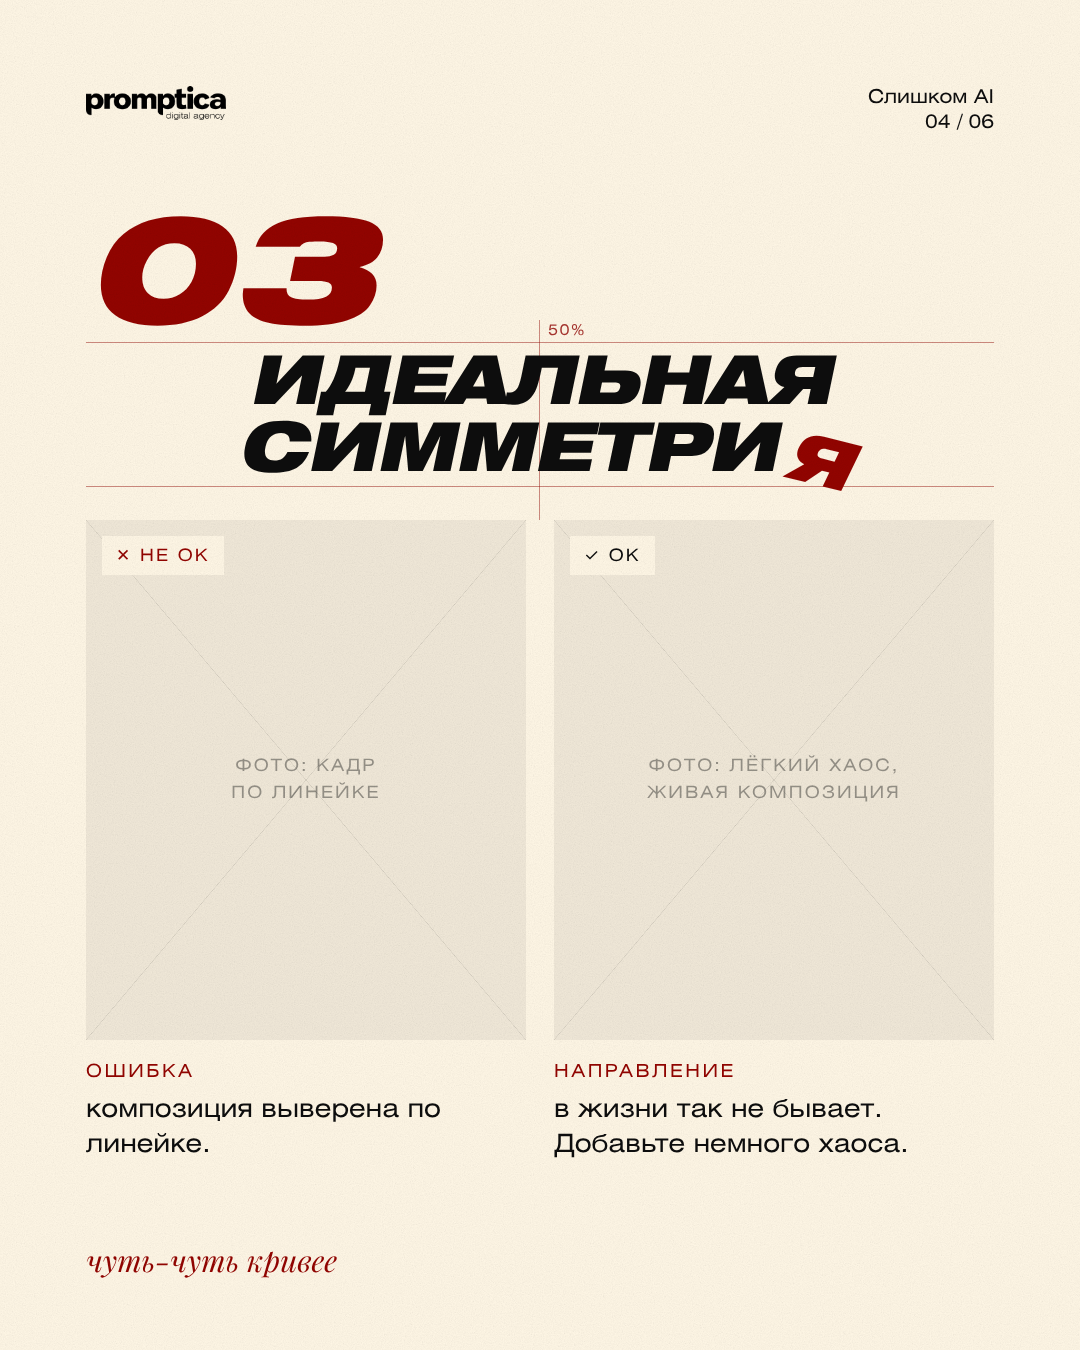
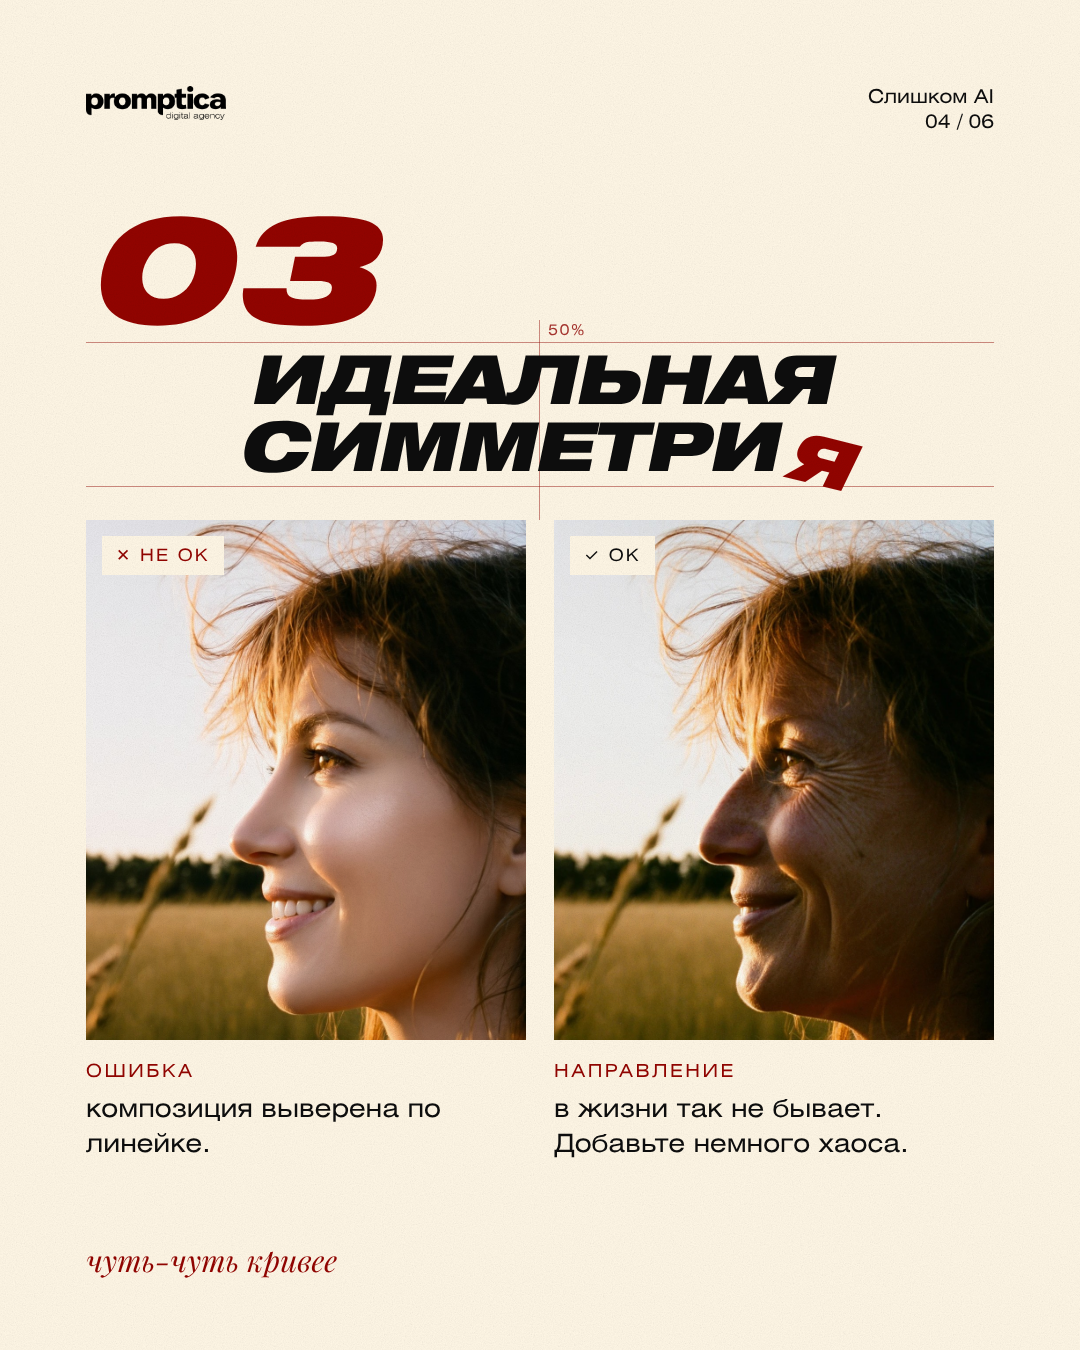
«Слишком AI»: фото на слайдах «Идеальная симметрия» и «Странный свет»
Claude-Session: https://claude.ai/code/session_01V1NUh11xrVMcB1cs4GV2qz

Changed region(s): [[0.0611, 0.3733, 0.9472, 0.7778]]

diff --git a/carousels/promptica-too-ai/04.html b/carousels/promptica-too-ai/04.html
@@ -23,9 +23,9 @@
     <div class="tick" style="left: 548px; top: 322px;">50%</div>
     <div class="h title">Идеальная<br>симметри<span class="off">я</span></div>
     <div class="pair">
-      <div class="col bad"><div class="ph"><span class="badge">✕ не ок</span><div class="x"></div><div class="hint">фото: кадр<br>по линейке</div><img src="img/04-bad.jpg" alt="" onerror="this.remove()"></div>
+      <div class="col bad"><div class="ph"><span class="badge">✕ не ок</span><div class="x"></div><div class="hint">фото: кадр<br>по линейке</div><img src="img/04-bad.jpg" style="object-position:50% 46%" alt="" onerror="this.remove()"></div>
         <div class="cap"><div class="lbl">Ошибка</div><p class="txt">композиция выверена по линейке.</p></div></div>
-      <div class="col good"><div class="ph"><span class="badge">✓ ок</span><div class="x"></div><div class="hint">фото: лёгкий хаос,<br>живая композиция</div><img src="img/04-good.jpg" alt="" onerror="this.remove()"></div>
+      <div class="col good"><div class="ph"><span class="badge">✓ ок</span><div class="x"></div><div class="hint">фото: лёгкий хаос,<br>живая композиция</div><img src="img/04-good.jpg" style="object-position:50% 46%" alt="" onerror="this.remove()"></div>
         <div class="cap"><div class="lbl">Направление</div><p class="txt">в жизни так не бывает. Добавьте немного хаоса.</p></div></div>
     </div>
     <div class="note">чуть-чуть кривее</div>

diff --git a/carousels/promptica-too-ai/05.html b/carousels/promptica-too-ai/05.html
@@ -21,9 +21,9 @@
     <div class="src"></div><div class="srcl">источник</div><div class="ray"></div>
     <div class="h title">Странный<br>свет</div>
     <div class="pair">
-      <div class="col bad"><div class="ph"><span class="badge">✕ не ок</span><div class="x"></div><div class="hint">фото: свет<br>ниоткуда</div><img src="img/05-bad.jpg" alt="" onerror="this.remove()"></div>
+      <div class="col bad"><div class="ph"><span class="badge">✕ не ок</span><div class="x"></div><div class="hint">фото: свет<br>ниоткуда</div><img src="img/05-bad.jpg" style="object-position:50% 14%" alt="" onerror="this.remove()"></div>
         <div class="cap"><div class="lbl">Ошибка</div><p class="txt">непонятно, откуда он идёт.</p></div></div>
-      <div class="col good"><div class="ph"><span class="badge">✓ ок</span><div class="x"></div><div class="hint">фото: понятный<br>источник света</div><img src="img/05-good.jpg" alt="" onerror="this.remove()"></div>
+      <div class="col good"><div class="ph"><span class="badge">✓ ок</span><div class="x"></div><div class="hint">фото: понятный<br>источник света</div><img src="img/05-good.jpg" style="object-position:50% 14%" alt="" onerror="this.remove()"></div>
         <div class="cap"><div class="lbl">Направление</div><p class="txt">у света в кадре должен быть источник и логика.</p></div></div>
     </div>
     <div class="note">откуда свет?</div>
